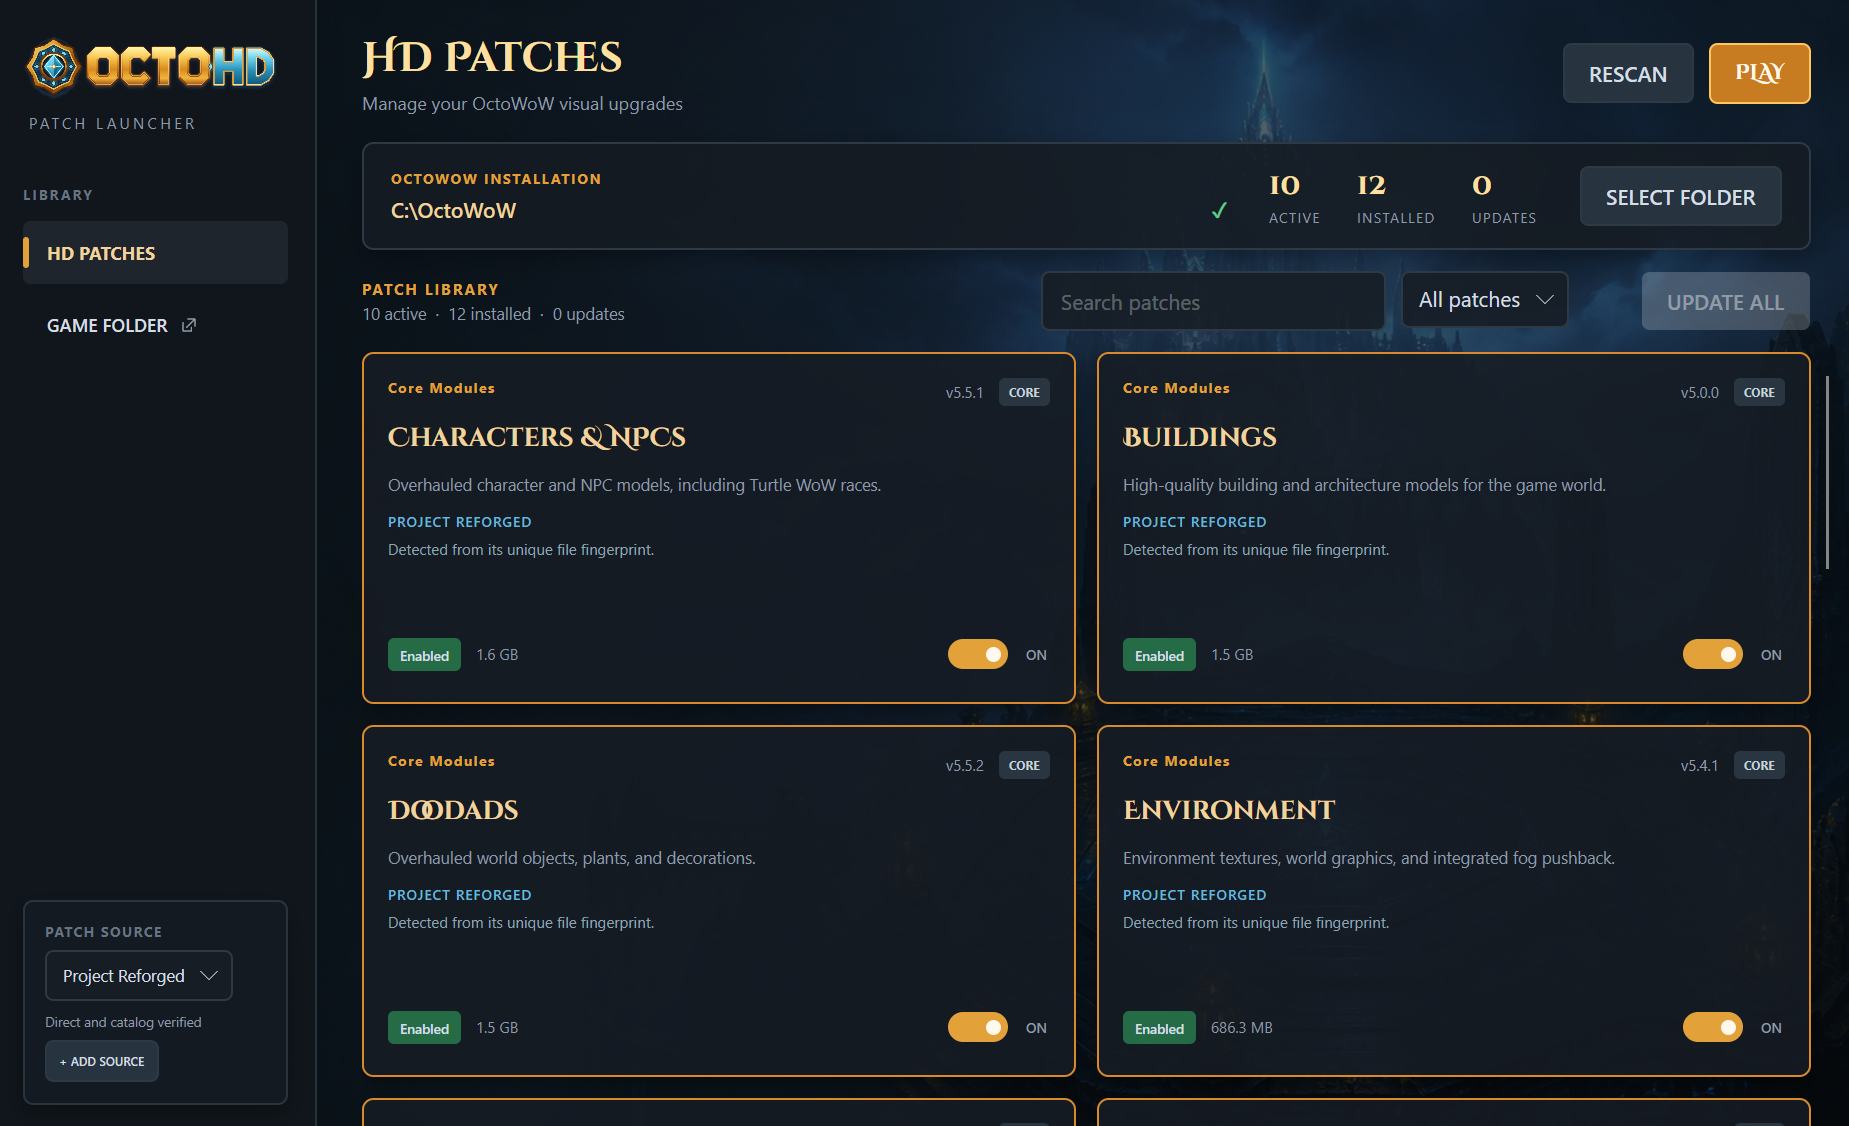
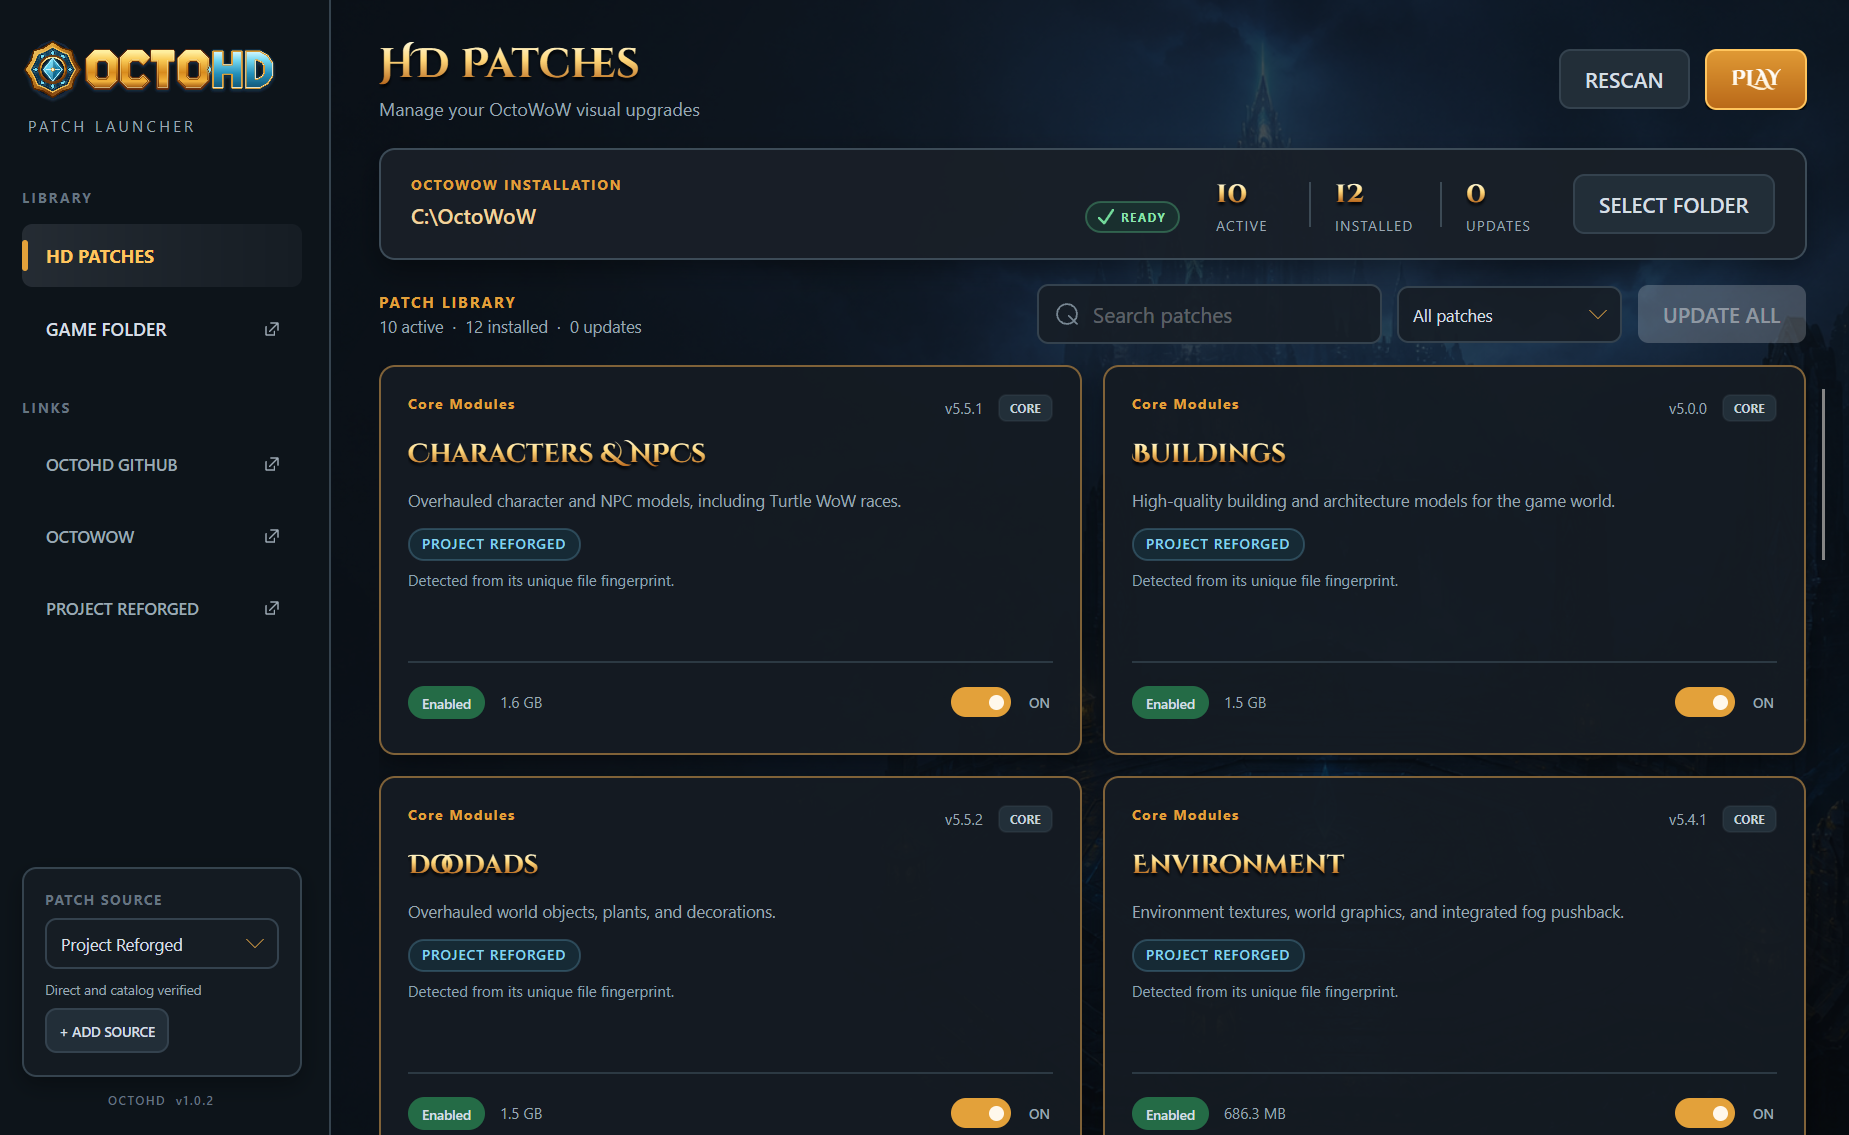
Refresh launcher UI for 1.0.3

diff --git a/src/OctoHD.App/Views/MainWindow.axaml.cs b/src/OctoHD.App/Views/MainWindow.axaml.cs
@@ -1,3 +1,4 @@
+using System.Diagnostics;
 using Avalonia;
 using Avalonia.Controls;
 using Avalonia.Input;
@@ -95,6 +96,31 @@ public sealed partial class MainWindow : Window
             catch (Exception exception)
             {
                 viewModel.ReportSettingsError(exception.Message);
+            }
+        }
+    }
+
+    private void ExternalLink_OnClick(object? sender, RoutedEventArgs e)
+    {
+        if (sender is not Button { Tag: string target }
+            || !Uri.TryCreate(target, UriKind.Absolute, out var uri)
+            || uri.Scheme != Uri.UriSchemeHttps)
+        {
+            return;
+        }
+
+        try
+        {
+            Process.Start(new ProcessStartInfo(uri.AbsoluteUri)
+            {
+                UseShellExecute = true
+            });
+        }
+        catch (Exception exception)
+        {
+            if (DataContext is MainWindowViewModel viewModel)
+            {
+                viewModel.ReportExternalLinkError(exception.Message);
             }
         }
     }

diff --git a/src/OctoHD.App/ViewModels/MainWindowViewModel.cs b/src/OctoHD.App/ViewModels/MainWindowViewModel.cs
@@ -511,6 +511,9 @@ public sealed class MainWindowViewModel : ObservableObject
     public void ReportSettingsError(string message) =>
         StatusMessage = $"Patch source settings could not be saved: {message}";
 
+    public void ReportExternalLinkError(string message) =>
+        StatusMessage = $"The website could not be opened: {message}";
+
     private Task BeginAddPatchSourceAsync()
     {
         PatchSourceError = string.Empty;
